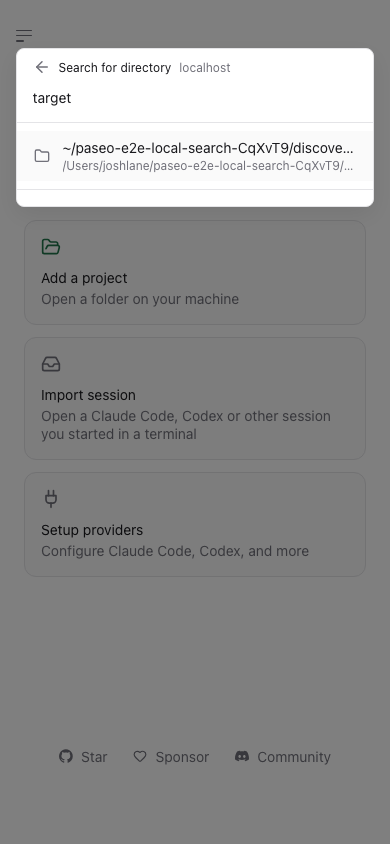
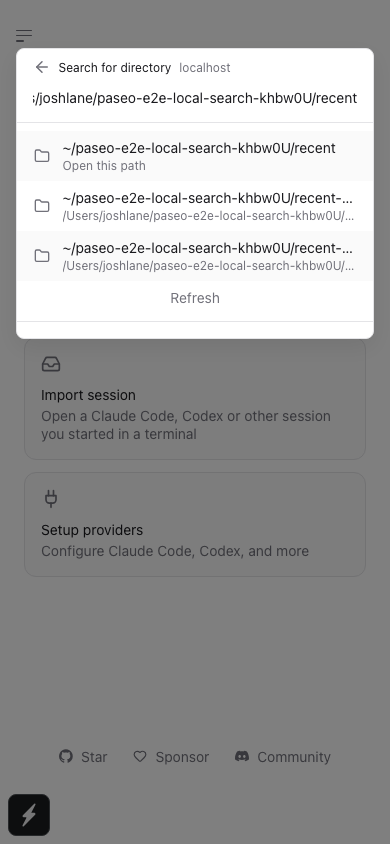
fix(projects): complete host directory searches
Search the host alongside immediate cached local matches. Honor cache
freshness, add explicit refresh, and let new queries run while older
requests remain pending. Prioritize current host results over stale
paths.

Let Enter activate focused buttons without opening the selected
directory. Extend existing regression tests and refresh the current UI
screenshot.

Detected-By: user

Changed region(s): [[0.0308, 0.154, 0.9846, 0.4005], [0.0923, 0.0924, 0.9231, 0.1232], [0.0, 0.9242, 0.1538, 1.0]]

diff --git a/packages/app/e2e/browser/add-project-flow.spec.ts b/packages/app/e2e/browser/add-project-flow.spec.ts
@@ -2,7 +2,7 @@ import { randomUUID } from "node:crypto";
 import { mkdir, mkdtemp, rm, stat } from "node:fs/promises";
 import { homedir, tmpdir } from "node:os";
 import path from "node:path";
-import { test, expect } from "../support/fixtures";
+import { test, expect, type Page } from "../support/fixtures";
 import {
   addProjectFlow,
   addProjectFlowBack,
@@ -29,6 +29,7 @@ import { expectOpenedProject } from "../support/helpers/project-picker-ui";
 import { connectSeedClient } from "../support/helpers/seed-client";
 import { getServerId } from "../support/helpers/server-id";
 import { openMobileAgentSidebar } from "../support/helpers/sidebar";
+import { daemonWsRoutePattern } from "../support/helpers/daemon-port";
 
 const SECONDARY_HOST_ID = "add-project-flow-secondary";
 const SECONDARY_HOST_LABEL = "Secondary Host";
@@ -64,17 +65,58 @@ async function expectProjectHasNoWorkspaces(projectId: string): Promise<void> {
   }
 }
 
+async function holdDirectorySearchResponse(page: Page, query: string) {
+  const delivery: { requestId: string | null; release: (() => void) | null } = {
+    requestId: null,
+    release: null,
+  };
+  const requests: string[] = [];
+  await page.routeWebSocket(daemonWsRoutePattern(), (browser) => {
+    const server = browser.connectToServer();
+    browser.onMessage((message) => {
+      const frame = JSON.parse(message.toString()) as {
+        message?: { type?: string; query?: string; requestId?: string };
+      };
+      if (frame.message?.type === "directory_suggestions_request") {
+        requests.push(frame.message.query ?? "");
+        if (frame.message.query === query) {
+          delivery.requestId = frame.message.requestId ?? null;
+        }
+      }
+      server.send(message);
+    });
+    server.onMessage((message) => {
+      const frame = JSON.parse(message.toString()) as {
+        message?: { type?: string; payload?: { requestId?: string } };
+      };
+      if (
+        frame.message?.type === "directory_suggestions_response" &&
+        frame.message.payload?.requestId === delivery.requestId
+      ) {
+        // Delay a real host response until the next search has finished.
+        delivery.release = () => browser.send(message);
+        return;
+      }
+      browser.send(message);
+    });
+  });
+  return { delivery, requests };
+}
+
 test.describe("Add Project command-center flow", () => {
   test.describe.configure({ timeout: 180_000 });
 
-  test("filters cached directories and searches only after a persistent empty result", async ({
+  test("shows local matches immediately and refreshes cached directory searches", async ({
     page,
   }, testInfo) => {
     test.setTimeout(60_000);
     const root = await mkdtemp(path.join(homedir(), "paseo-e2e-local-search-"));
     const recentPath = path.join(root, "recent-project");
+    const otherRecentPath = path.join(root, "recent-other");
     const discoveryPath = path.join(root, "discovery-target");
+    const newPath = path.join(root, "new-target");
     await mkdir(recentPath);
+    await mkdir(otherRecentPath);
     await mkdir(discoveryPath);
     const client = await connectSeedClient();
     const project = await client.addProject(recentPath);
@@ -98,32 +140,147 @@ test.describe("Add Project command-center flow", () => {
       await page.clock.runFor(600);
       expect(requests).toEqual([]);
 
-      await addProjectFlowInput(page).fill("recent");
-      await page.clock.runFor(600);
+      const recentSearch = `${root}/recent`;
+      await addProjectFlowInput(page).fill(recentSearch);
       await expect(addProjectFlow(page)).toContainText("recent-project");
+      await page.clock.runFor(200);
       expect(requests).toEqual([]);
+      await page.clock.runFor(250);
+      await expect(addProjectFlow(page)).toContainText("recent-other");
+      expect(requests).toEqual([recentSearch]);
 
       const search = `${root}/discovery`;
       await addProjectFlowInput(page).fill(search);
       await page.clock.runFor(200);
-      expect(requests).toEqual([]);
-      await addProjectFlowInput(page).fill("recent");
+      expect(requests).toEqual([recentSearch]);
+      await addProjectFlowInput(page).fill(recentSearch);
       await page.clock.runFor(600);
-      expect(requests).toEqual([]);
+      expect(requests).toEqual([recentSearch]);
 
       await addProjectFlowInput(page).fill(search);
       await page.clock.runFor(450);
       await expect(addProjectFlow(page)).toContainText("discovery-target");
-      expect(requests).toEqual([search]);
+      expect(requests).toEqual([recentSearch, search]);
 
-      await addProjectFlowInput(page).fill("target");
+      const emptySearch = path.join(root, "new-targ");
+      const discoveredPath = page.getByTestId(
+        `add-project-flow-path-${encodeURIComponent(newPath)}`,
+      );
+      await addProjectFlowInput(page).fill(emptySearch);
       await page.clock.runFor(600);
-      await expect(addProjectFlow(page)).toContainText("discovery-target");
-      expect(requests).toEqual([search]);
-      await page.screenshot({ path: testInfo.outputPath("cached-directory-search.png") });
+      await expect(page.getByTestId("add-project-flow-refresh")).toBeEnabled();
+      await expect(discoveredPath).toHaveCount(0);
+      expect(requests).toEqual([recentSearch, search, emptySearch]);
+      await mkdir(newPath);
+      await page.getByTestId("add-project-flow-refresh").click();
+      await expect(discoveredPath).toBeVisible();
+      expect(requests).toEqual([recentSearch, search, emptySearch, emptySearch]);
+      await rm(newPath, { recursive: true });
+      await page.getByTestId("add-project-flow-refresh").click();
+      await expect(discoveredPath).toHaveCount(0);
+      await expect(page.getByTestId("add-project-flow-refresh")).toBeEnabled();
+      expect(requests).toEqual([recentSearch, search, emptySearch, emptySearch, emptySearch]);
+
+      await mkdir(newPath);
+      await addProjectFlowInput(page).fill(recentSearch);
+      await page.clock.runFor(600);
+      await expect(addProjectFlow(page)).toContainText("recent-project");
+      await addProjectFlowInput(page).fill(emptySearch);
+      await page.clock.runFor(600);
+      await expect(page.getByTestId("add-project-flow-refresh")).toBeEnabled();
+      await expect(discoveredPath).toHaveCount(0);
+      expect(requests).toEqual([recentSearch, search, emptySearch, emptySearch, emptySearch]);
+      await addProjectFlowInput(page).fill("");
+      await page.clock.setSystemTime((await page.evaluate(() => Date.now())) + 16_000);
+      await addProjectFlowInput(page).fill(emptySearch);
+      await page.clock.runFor(600);
+      await expect(discoveredPath).toBeVisible();
+      expect(requests).toEqual([
+        recentSearch,
+        search,
+        emptySearch,
+        emptySearch,
+        emptySearch,
+        emptySearch,
+      ]);
+      await addProjectFlowInput(page).fill(recentSearch);
+      await page.clock.runFor(600);
+      await expect(addProjectFlow(page)).toContainText("recent-other");
+      await expect(page.getByTestId("add-project-flow-refresh")).toBeEnabled();
+      const screenshot = testInfo.outputPath("cached-directory-search.png");
+      await page.screenshot({ path: screenshot });
     } finally {
       await client.removeProject(project.project.projectId);
       await client.close();
+      await rm(root, { recursive: true, force: true });
+    }
+  });
+
+  test("Enter on focused Refresh searches without opening the selected directory", async ({
+    page,
+  }) => {
+    const root = await mkdtemp(path.join(homedir(), "paseo-e2e-refresh-keyboard-"));
+    const projectPath = path.join(root, "refresh-project");
+    await mkdir(projectPath);
+    const client = await connectSeedClient();
+    const project = await client.addProject(projectPath);
+    if (!project.project) throw new Error(project.error ?? "Could not seed recent project");
+    const query = path.join(root, "refresh");
+    const { requests } = await holdDirectorySearchResponse(page, "unused");
+    try {
+      await gotoAppShell(page);
+      await openAddProjectFlow(page);
+      await chooseAddProjectMethod(page, "directory-search");
+      await addProjectFlowInput(page).fill(query);
+      const refresh = page.getByTestId("add-project-flow-refresh");
+      await expect(refresh).toBeEnabled();
+      expect(requests).toEqual([query]);
+      await refresh.focus();
+      await expect(refresh).toBeFocused();
+      await refresh.press("Enter");
+      await expect.poll(() => requests).toEqual([query, query]);
+      await expect(refresh).toBeEnabled();
+      await expectAddProjectPage(page, "directory-search");
+      await expect(page.getByTestId("add-project-flow-progress")).toHaveCount(0);
+      await expectProjectHasNoWorkspaces(project.project.projectId);
+    } finally {
+      await client.removeProject(project.project.projectId);
+      await client.close();
+      await rm(root, { recursive: true, force: true });
+    }
+  });
+
+  test("searches a new query while an older response is pending and ignores late results", async ({
+    page,
+  }) => {
+    const root = await mkdtemp(path.join(homedir(), "paseo-e2e-pending-search-"));
+    const slowPath = path.join(root, "slow-project");
+    const fastPath = path.join(root, "fast-project");
+    await mkdir(slowPath);
+    await mkdir(fastPath);
+    const { delivery, requests } = await holdDirectorySearchResponse(page, slowPath);
+    try {
+      await gotoAppShell(page);
+      await page.clock.install();
+      await openAddProjectFlow(page);
+      await chooseAddProjectMethod(page, "directory-search");
+      await addProjectFlowInput(page).fill(slowPath);
+      await page.clock.runFor(450);
+      await expect.poll(() => delivery.release !== null).toBe(true);
+      await expect(page.getByTestId("add-project-flow-loading")).toBeVisible();
+
+      await addProjectFlowInput(page).fill(fastPath);
+      await page.clock.runFor(450);
+      await expect(addProjectFlow(page)).toContainText("fast-project");
+      await expect(page.getByTestId("add-project-flow-loading")).toHaveCount(0);
+      expect(requests).toEqual([slowPath, fastPath]);
+
+      delivery.release?.();
+      await page.clock.runFor(100);
+      await expect(page.getByTestId("add-project-flow-refresh")).toBeEnabled();
+      await expect(addProjectFlow(page)).toContainText("fast-project");
+      await expect(addProjectFlow(page)).not.toContainText("slow-project");
+    } finally {
       await rm(root, { recursive: true, force: true });
     }
   });

diff --git a/packages/app/src/add-project-flow/model.test.ts b/packages/app/src/add-project-flow/model.test.ts
@@ -211,7 +211,7 @@ describe("Add Project options", () => {
 });
 
 describe("local directory search", () => {
-  it("shows recent paths without searching and filters cached results before a remote fallback", () => {
+  it("shows recent paths immediately while allowing host searches even with local matches", () => {
     const recommendedPaths = ["/repo/recent", "/repo/older"];
     const cachedResults = [{ query: "app", paths: ["/src/app-mobile", "/src/app-web"] }];
     expect(planDirectorySearch({ query: "", recommendedPaths, cachedResults })).toEqual({
@@ -220,7 +220,7 @@ describe("local directory search", () => {
     });
     expect(planDirectorySearch({ query: "mobile", recommendedPaths, cachedResults })).toEqual({
       paths: ["/src/app-mobile"],
-      queryToFetch: null,
+      queryToFetch: "mobile",
     });
     expect(planDirectorySearch({ query: "missing", recommendedPaths, cachedResults })).toEqual({
       paths: [],
@@ -232,7 +232,7 @@ describe("local directory search", () => {
         recommendedPaths,
         cachedResults: [...cachedResults, { query: "missing", paths: [] }],
       }),
-    ).toEqual({ paths: [], queryToFetch: null });
+    ).toEqual({ paths: [], queryToFetch: "missing" });
   });
 
   it("limits visible suggestions without losing the rest of the local search index", () => {
@@ -246,12 +246,39 @@ describe("local directory search", () => {
     );
     expect(planDirectorySearch({ query: "project-99", recommendedPaths, cachedResults })).toEqual({
       paths: ["/projects/project-99"],
-      queryToFetch: null,
+      queryToFetch: "project-99",
     });
     expect(planDirectorySearch({ query: "~/src", recommendedPaths: [], cachedResults })).toEqual({
       paths: ["/Users/me/src/mobile"],
-      queryToFetch: null,
+      queryToFetch: "~/src",
     });
+  });
+
+  it("uses the current host response instead of removed paths from other cached searches", () => {
+    expect(
+      planDirectorySearch({
+        query: "app",
+        recommendedPaths: ["/recent/app"],
+        cachedResults: [
+          { query: "mobile", paths: ["/deleted/app-mobile"] },
+          { query: "app", paths: ["/current/app-web"] },
+        ],
+      }),
+    ).toEqual({
+      paths: ["/current/app-web", "/recent/app"],
+      queryToFetch: "app",
+    });
+  });
+
+  it("keeps host matches visible when local recommendations fill the suggestion limit", () => {
+    const recommendedPaths = Array.from({ length: 30 }, (_, index) => `/local/app-${index}`);
+    const result = planDirectorySearch({
+      query: "app",
+      recommendedPaths,
+      cachedResults: [{ query: "app", paths: ["/host/app-new"] }],
+    });
+    expect(result.paths).toEqual(["/host/app-new", ...recommendedPaths.slice(0, 29)]);
+    expect(result.queryToFetch).toBe("app");
   });
 
   it("keeps hosts isolated and drops invalidated searches from local filtering", async () => {

diff --git a/packages/app/src/add-project-flow/use-directory-search.ts b/packages/app/src/add-project-flow/use-directory-search.ts
@@ -1,5 +1,4 @@
 import { useCallback, useMemo } from "react";
-import { useIsFetching } from "@tanstack/react-query";
 import type { DaemonClient } from "@getpaseo/client/internal/daemon-client";
 import { useFetchQuery } from "@/data/query";
 import { useCachedQueryData } from "@/hooks/use-cached-query-data";
@@ -17,12 +16,8 @@ export function useDirectorySearch(input: {
   const cachedResults = useCachedQueryData<DirectorySearchResult>(root);
   const plan = planDirectorySearch({ ...input, cachedResults });
   const query = input.query.trim();
-  const pendingOtherSearches = useIsFetching({
-    queryKey: root,
-    predicate: (cached) => cached.queryKey[2] !== query,
-  });
   const candidate =
-    input.enabled && input.client && plan.queryToFetch && pendingOtherSearches === 0
+    input.enabled && input.client && plan.queryToFetch
       ? JSON.stringify([input.hostId, plan.queryToFetch])
       : null;
   const settledCandidate = useDebouncedValue(candidate, 400);
@@ -57,9 +52,7 @@ export function useDirectorySearch(input: {
     paths: plan.paths,
     isFetching: result.isFetching,
     isError: result.isError && candidate !== null,
-    isWaiting:
-      Boolean(input.enabled && plan.queryToFetch) &&
-      (pendingOtherSearches > 0 || candidate !== settledCandidate),
+    isWaiting: candidate !== null && candidate !== settledCandidate,
     retry,
   };
 }

diff --git a/packages/app/src/components/add-project-flow.tsx b/packages/app/src/components/add-project-flow.tsx
@@ -783,6 +783,14 @@ export function AddProjectFlow({ request, onClose }: AddProjectFlowProps) {
   const modalLayer = useGlobalWebOverlayLayer("modal", isWeb);
   const handleWebOverlayKeyDown = useCallback(
     (event: KeyboardEvent) => {
+      if (
+        isWeb &&
+        event.key === "Enter" &&
+        event.target instanceof Element &&
+        event.target.closest('button, [role="button"]')
+      ) {
+        return false;
+      }
       if (!handleKey(event.key)) return false;
       event.preventDefault();
       return true;
@@ -949,6 +957,17 @@ export function AddProjectFlow({ request, onClose }: AddProjectFlowProps) {
               <Text style={styles.stateText} testID="add-project-flow-empty">
                 {emptyText(page, host ?? null)}
               </Text>
+            ) : null}
+            {!isSubmitting && searchesDirectories && query.trim() && !queryError ? (
+              <Button
+                variant="ghost"
+                size="sm"
+                onPress={directoryQuery.retry}
+                disabled={loading}
+                testID="add-project-flow-refresh"
+              >
+                Refresh
+              </Button>
             ) : null}
           </ScrollView>
           <View style={styles.footer} testID="add-project-flow-footer">

diff --git a/packages/app/src/add-project-flow/directory-search.ts b/packages/app/src/add-project-flow/directory-search.ts
@@ -15,14 +15,13 @@ export function planDirectorySearch(input: {
   const paths = buildWorkingDirectorySuggestions({
     recommendedPaths: [
       ...input.recommendedPaths,
-      ...input.cachedResults.flatMap((result) => result.paths),
+      ...(previousResult ? [] : input.cachedResults.flatMap((result) => result.paths)),
     ],
     serverPaths: previousResult?.paths ?? [],
     query,
   });
   return {
-    paths: paths.slice(0, 30),
-    // A cached empty response is an answer too. Retyping it must not start a loop.
-    queryToFetch: query && paths.length === 0 && !previousResult ? query : null,
+    paths: [...new Set([...(previousResult?.paths ?? []), ...paths])].slice(0, 30),
+    queryToFetch: query || null,
   };
 }
